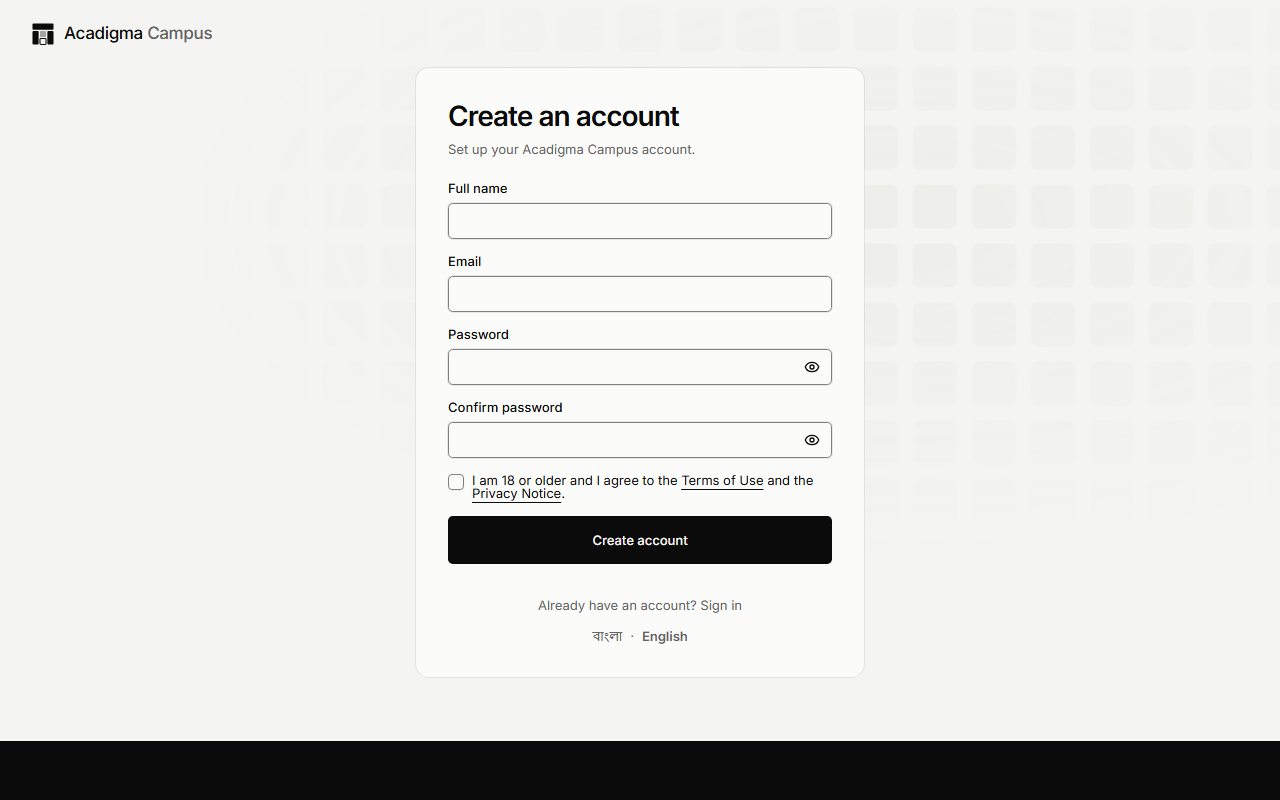
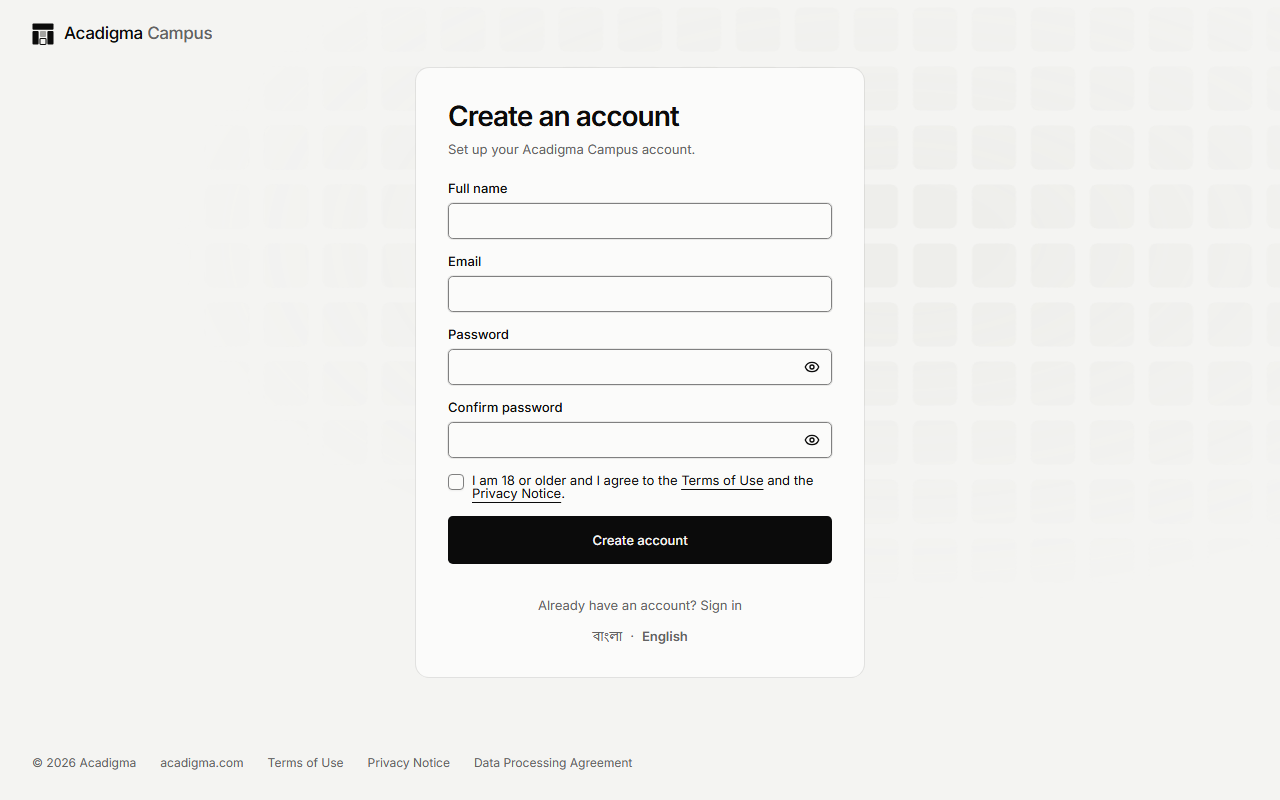
fix(design): one-line footer on auth pages; the full footer pushed /login LCP to 4.1s
Claude-Session: https://claude.ai/code/session_01RPijCEs437geuhi9W27B76

Changed region(s): [[0.0, 0.9062, 1.0, 1.0]]

diff --git a/apps/web/app/(auth)/layout.tsx b/apps/web/app/(auth)/layout.tsx
@@ -3,42 +3,57 @@ import Link from "next/link"
 import { Logo } from "@acadigma/ui/primitives/logo"
 
 import { CellField } from "@/app/(marketing)/front-door/cell-field"
-import { SiteFooter } from "@/app/(marketing)/front-door/site-footer"
-import { getMessages } from "@/lib/i18n"
+import { WEBSITE_URL } from "@/app/(marketing)/front-door/products"
+import { LEGAL_DOCUMENTS } from "@/lib/legal/documents"
 
 /**
  * Frame for sign-in, registration and password recovery, in the same
  * acadigma.com look as the front door (D-410): the cell texture behind the
- * form and the website's footer below it. The forms themselves are unchanged.
- * The language switch stays in each page's `AuthCard` footer, so the site
- * footer here omits its own.
+ * form, the Campus lockup, and a one-line footer. The forms are unchanged.
+ * The front door's full dark footer is not repeated here: on a phone it
+ * became the largest text in view and pushed Lighthouse's LCP for `/login`
+ * from 2.6 s to 4.1 s (CI run 36747315850).
  */
-export default async function AuthLayout({
+export default function AuthLayout({
   children,
 }: Readonly<{ children: React.ReactNode }>) {
-  const { t } = await getMessages()
-
   return (
-    <div className="flex min-h-dvh flex-col bg-background">
-      <div className="relative isolate flex flex-1 flex-col overflow-hidden">
-        <CellField />
-        <header className="mx-auto w-full max-w-7xl px-5 py-3 sm:px-8">
-          <Link
-            href="/"
-            aria-label="Acadigma Campus home"
-            className="inline-flex min-h-11 items-center"
-          >
-            <Logo product="campus" />
-          </Link>
-        </header>
-        <main
-          id="main"
-          className="flex flex-1 items-start justify-center px-4 pt-4 pb-16 sm:items-center sm:pt-0"
+    <div className="relative isolate flex min-h-dvh flex-col overflow-hidden bg-background">
+      <CellField />
+      <header className="mx-auto w-full max-w-7xl px-5 py-3 sm:px-8">
+        <Link
+          href="/"
+          aria-label="Acadigma Campus home"
+          className="inline-flex min-h-11 items-center"
         >
-          <div className="w-full max-w-sm sm:max-w-md">{children}</div>
-        </main>
-      </div>
-      <SiteFooter t={t.frontDoor} />
+          <Logo product="campus" />
+        </Link>
+      </header>
+      <main
+        id="main"
+        className="flex flex-1 items-start justify-center px-4 pt-4 pb-16 sm:items-center sm:pt-0"
+      >
+        <div className="w-full max-w-sm sm:max-w-md">{children}</div>
+      </main>
+      <footer className="mx-auto flex w-full max-w-7xl flex-wrap items-center gap-x-6 px-5 pb-4 text-xs text-muted-foreground sm:px-8">
+        <span>© {new Date().getFullYear()} Acadigma</span>
+        <a
+          href={WEBSITE_URL}
+          className="inline-flex min-h-11 items-center hover:text-foreground hover:underline"
+        >
+          acadigma.com
+        </a>
+        {/* D-114: the documents people agree to, one tap from every public page. */}
+        {Object.entries(LEGAL_DOCUMENTS).map(([key, d]) => (
+          <Link
+            key={key}
+            href={`/legal/${key}`}
+            className="inline-flex min-h-11 items-center hover:text-foreground hover:underline"
+          >
+            {d.title}
+          </Link>
+        ))}
+      </footer>
     </div>
   )
 }

diff --git a/apps/web/app/(marketing)/front-door/site-footer.tsx b/apps/web/app/(marketing)/front-door/site-footer.tsx
@@ -13,16 +13,14 @@ import { CONTACT, PRODUCTS, WEBSITE_URL, productUrl } from "./products"
  * ported without `motion`: a `dark` section on any theme, product, follow and
  * company columns, and the static "Acadigma" wordmark (the website's
  * parallax is dropped, D-410). Adds the legal documents (D-114) and the
- * language switch, which the website does not have. Shared by the front
- * door and the `(auth)` layout so the flow ends the same way everywhere.
+ * language switch, which the website does not have.
  */
 export function SiteFooter({
   t,
   locale,
 }: {
   t: Messages["frontDoor"]
-  /** Shows the language switch; omitted where the page already has one (auth). */
-  locale?: Locale
+  locale: Locale
 }) {
   const f = t.footer
   const columns = [
@@ -119,7 +117,7 @@ export function SiteFooter({
         <span>
           © {new Date().getFullYear()} Acadigma · {f.origin}
         </span>
-        {locale ? <LanguageToggle current={locale} /> : null}
+        <LanguageToggle current={locale} />
       </div>
 
       {/* Decoration, not text: drawn by CSS `content` so contrast checks

diff --git a/docs/test-reports/2026-09-30-F-ID-12-p1.md b/docs/test-reports/2026-09-30-F-ID-12-p1.md
@@ -14,7 +14,7 @@
 
 ## 1. Scope
 
-**What this Part is.** `campus.acadigma.com/` is rebuilt in acadigma.com's look (read from `acadigma-website` `origin/main`, not invented). It names only live features, offers **Sign in** and **Create account**, and has a "Get the app" chooser (`#get-the-app`) with Web · Android · iPhone · Windows · Mac tabs. Each tab gives the browser's own PWA install steps; a real Install button appears only when the browser fires `beforeinstallprompt`; store/desktop builds say "coming later". An "Acadigma apps" row shows Campus (you are here), Parents, Students and Ledger (coming soon, as on acadigma.com), each linking to `acadigma.com/<product>`. The `(auth)` layout gets the same texture and footer. No auth form, action or validation changed. No migration.
+**What this Part is.** `campus.acadigma.com/` is rebuilt in acadigma.com's look (read from `acadigma-website` `origin/main`, not invented). It names only live features, offers **Sign in** and **Create account**, and has a "Get the app" chooser (`#get-the-app`) with Web · Android · iPhone · Windows · Mac tabs. Each tab gives the browser's own PWA install steps; a real Install button appears only when the browser fires `beforeinstallprompt`; store/desktop builds say "coming later". An "Acadigma apps" row shows Campus (you are here), Parents, Students and Ledger (coming soon, as on acadigma.com), each linking to `acadigma.com/<product>`. The `(auth)` layout gets the same texture and a one-line footer. No auth form, action or validation changed. No migration.
 
 **Acceptance criteria covered** (spec §9):
 

diff --git a/docs/features/01-identity/F-ID-12-front-door.md b/docs/features/01-identity/F-ID-12-front-door.md
@@ -32,7 +32,7 @@ None. Copy lives in `apps/web/messages/{en,bn}.json` under `frontDoor`. Product 
 5. **One Acadigma account** — the same email sign-in works across the apps; phone-number sign-in is not available yet (no date).
 6. **Footer** — mirrors the website footer (dark, product list, follow links, company links) plus the legal documents (D-114) and the language switch.
 
-The `(auth)` layout (`/login`, `/register`, `/forgot`, `/reset`, `/verify`, `/invite`) gets the same background texture and a matching footer; forms, server actions and validation are untouched.
+The `(auth)` layout (`/login`, `/register`, `/forgot`, `/reset`, `/verify`, `/invite`) gets the same background texture, the Campus lockup and a one-line footer (acadigma.com and the legal documents; the full dark footer made `/login`'s Lighthouse LCP 4.1 s); forms, server actions and validation are untouched.
 
 ## 5. Rules
 

diff --git a/docs/architecture/DESIGN-SYSTEM.md b/docs/architecture/DESIGN-SYSTEM.md
@@ -424,7 +424,7 @@ follows **acadigma.com**, read from `acadigma-website` (`globals.css`,
   "Coming soon", native store builds say "coming later", never a date or a
   store badge.
 - **Reuse:** `FrontDoor` takes a product key; `front-door/products.ts` is the
-  one list of apps. `SiteFooter` is shared by `/` and the `(auth)` layout.
+  one list of apps. The `(auth)` layout carries the texture and a one-line footer (acadigma.com and the legal documents), not the full dark footer: that became the largest text on a phone and pushed `/login`'s Lighthouse LCP from 2.6 s to 4.1 s.
 
 Screenshots: `docs/test-reports/assets/2026-09-30-front-door/`.
 
